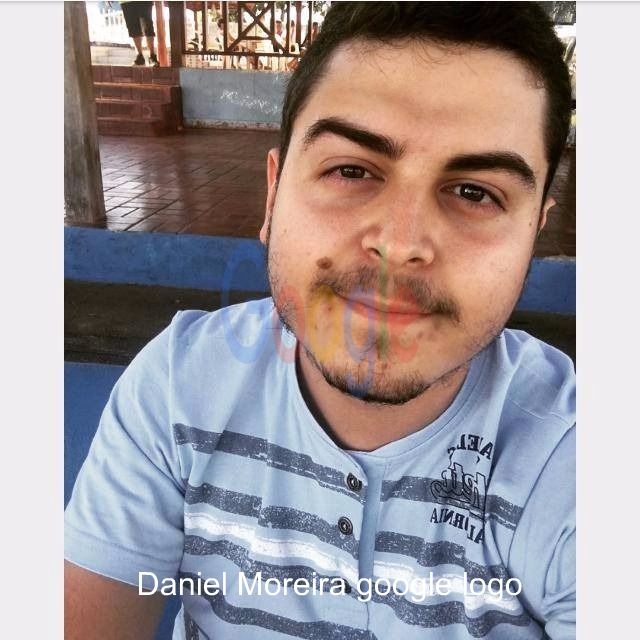
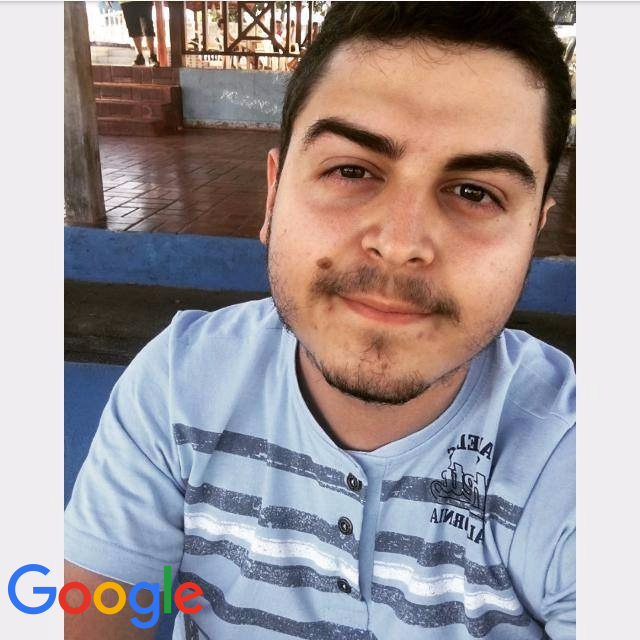
Concretiza a manipulação de imagens com marda d'água

Changed region(s): [[0.0, 0.875, 0.8125, 1.0], [0.3438, 0.375, 0.625, 0.625]]

diff --git a/ScriptsJS/ImageManipulation/index.js b/ScriptsJS/ImageManipulation/index.js
@@ -5,6 +5,9 @@ let imgRaw = path.resolve(__dirname, 'old_images/daniel.png'); //a 1024px x 1024
 let imgLogo = path.resolve(__dirname, 'old_images/logo.png'); //a 155px x 72px logo
 //---
 
+const {center, left, rigth} = require('./src/imagePosition');
+const {calculateImageProportions} = require('./src/imageRatio');
+
 let imgActive = path.resolve(__dirname, 'new_images/active.jpg');
 let imgExported = path.resolve(__dirname, 'new_images/exported.jpg');
 
@@ -32,30 +35,32 @@ Jimp.read(imgRaw)
             const height_image = tpl.bitmap.height;
 
             return Jimp.read(imgLogo).then(logoTpl => {
-                logoTpl.opacity(0.2);
-                logoTpl.resize((width_image / 3), (height_image / 3));
-                return tpl.composite(logoTpl, ((width_image - (width_image / 3)) / 2), ((height_image - (height_image / 3)) / 2), [Jimp.BLEND_DESTINATION_OVER, 0.2, 0.2]);
+                const {width, height} = calculateImageProportions(logoTpl.bitmap.width, logoTpl.bitmap.height);
+                logoTpl.resize(width, height);
+
+                const {x, y} = left(0,0,width_image, logoTpl.bitmap.height);
+                return tpl.composite(logoTpl, x, y, [Jimp.BLEND_DESTINATION_OVER, 0.2, 0.2]);
             })
         }
     )
 
     //load font
-    .then(tpl => (
-        Jimp.loadFont(Jimp.FONT_SANS_32_WHITE).then(font => ([tpl, font]))
-    ))
+    // .then(tpl => (
+    //     Jimp.loadFont(Jimp.FONT_SANS_32_WHITE).then(font => ([tpl, font]))
+    // ))
 
     //add footer text
-    .then(data => {
-
-        tpl = data[0];
-        const font = data[1];
-
-        return tpl.print(font, textData.placementX, textData.placementY, {
-            text: textData.text,
-            alignmentX: Jimp.HORIZONTAL_ALIGN_CENTER,
-            alignmentY: Jimp.VERTICAL_ALIGN_MIDDLE
-        }, textData.maxWidth, textData.maxHeight);
-    })
+    // .then(data => {
+    //
+    //     tpl = data[0];
+    //     const font = data[1];
+    //
+    //     return tpl.print(font, textData.placementX, textData.placementY, {
+    //         text: textData.text,
+    //         alignmentX: Jimp.HORIZONTAL_ALIGN_CENTER,
+    //         alignmentY: Jimp.VERTICAL_ALIGN_MIDDLE
+    //     }, textData.maxWidth, textData.maxHeight);
+    // })
 
     //export image
     .then(tpl => (tpl.quality(100).write(imgExported)))

diff --git a/ScriptsJS/ImageManipulation/src/imagePosition.js b/ScriptsJS/ImageManipulation/src/imagePosition.js
@@ -39,7 +39,11 @@ const calculateImageRightTop = ({imageWidth, markWidth, marginY, marginX}) => {
     return {x, y};
 };
 
-const left = ({marginX = 0, marginY = 0, imageHeight = 0, markHeight = 0, top = false}) => {
+const left = (marginX = 0, marginY = 0, imageHeight = 0, markHeight = 0, top = false) => {
+    if (imageHeight === true) {
+        top = true;
+    }
+
     if (top) {
         return calculateImageLeftTop({marginX, marginY});
     } else {
@@ -48,7 +52,11 @@ const left = ({marginX = 0, marginY = 0, imageHeight = 0, markHeight = 0, top = 
 };
 
 
-const rigth = ({marginX = 0, marginY = 0, imageWidth = 0, markWidth = 0, imageHeight = 0, markHeight = 0, top = false}) => {
+const rigth = (marginX = 0, marginY = 0, imageWidth = 0, markWidth = 0, imageHeight = 0, markHeight = 0, top = false) => {
+    if (imageHeight === true) {
+        top = true;
+    }
+
     if (top) {
         return calculateImageRightTop({imageWidth, markWidth, marginY, marginX});
     } else {

diff --git a/ScriptsJS/ImageManipulation/src/imageRatio.js b/ScriptsJS/ImageManipulation/src/imageRatio.js
@@ -1,7 +1,7 @@
 const calculateAspectRatio = (width, height) => width / height;
 const calculateImageProportions = (width, height) => {
-    const maxWidth = 1360;
-    const maxHeight = 1360;
+    const maxWidth = 210;
+    const maxHeight = 210;
     const ratio = calculateAspectRatio(width, height);
 
     let newWidth = maxWidth, newHeight = maxHeight;
@@ -12,7 +12,7 @@ const calculateImageProportions = (width, height) => {
         newHeight = maxWidth / ratio;
     }
 
-    return {newWidth, newHeight};
+    return {width: newWidth, height: newHeight};
 };
 
 module.exports = {calculateImageProportions};
